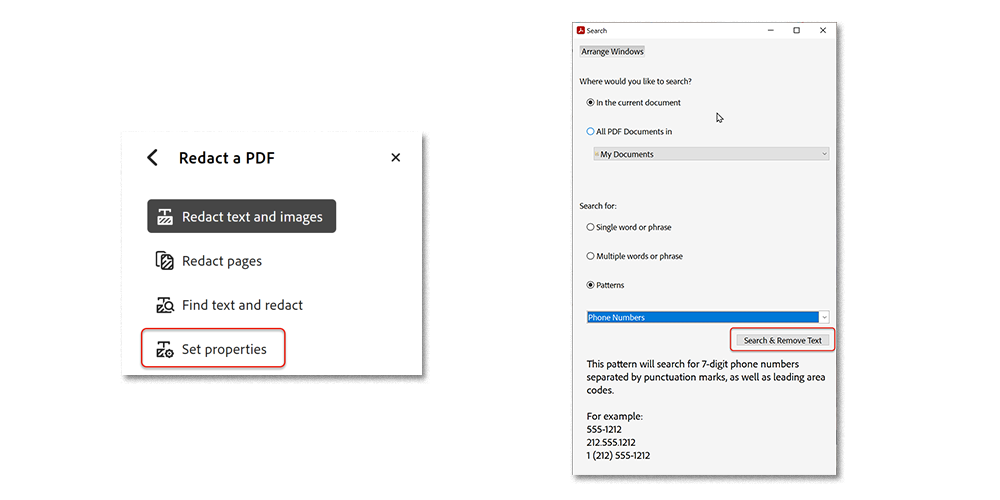
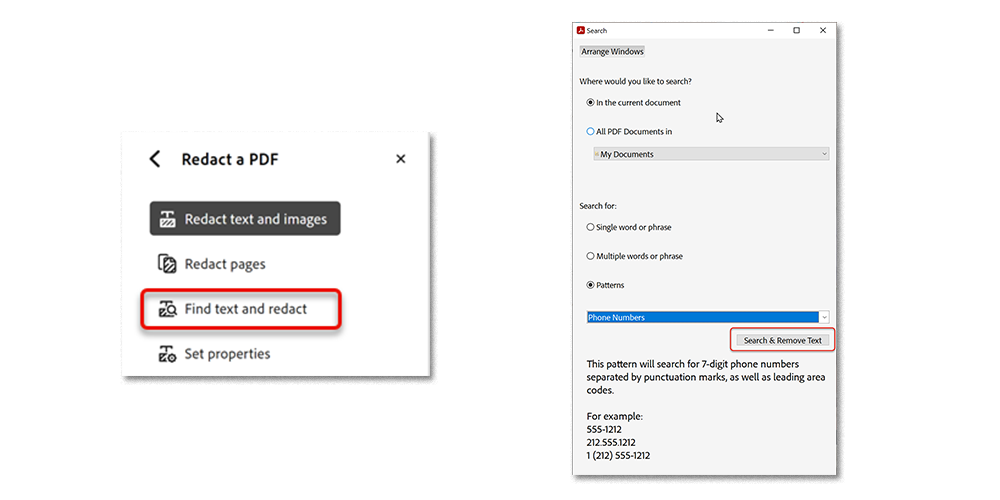
Fixed graphics

diff --git a/help/acrobat/advanced-tasks/redact.md b/help/acrobat/advanced-tasks/redact.md
@@ -32,17 +32,17 @@ Customer data protection, Risk management
 
 1. Select **[!UICONTROL Redact text and images]** and use the cursor to select the content to redact.
 
-    ![Redact Step 4](../assets/Redact_3.png)
+    ![Redact Step 3](../assets/Redact_3.png)
 
     You can see a preview of the redaction by hovering over the selected content.
 
-    ![Redact Step 5a](../assets/Redact_4.png)
-
 1. Select **[!UICONTROL Find text and redact]** to search for a specific word or phrase, or search for a Pattern to find certain types of information. Set your search and select Search & Remove Text.
+
+  ![Redact Step 4](../assets/Redact_4.png)
 
 1. In the search results dialog, check the boxes next to the items and select **[!UICONTROL Mark checked results for redaction]**.
 
-    ![Redact Step 5b](../assets/Redact_5.png)
+    ![Redact Step 5](../assets/Redact_5.png)
 
 1. Select **[!UICONTROL Redact pages]** to mark entire pages for redaction.
 
@@ -50,13 +50,15 @@ Customer data protection, Risk management
 
 1. Select your pages and choose **[!UICONTROL OK]**.
 
+    ![Redact Step 7](../assets/Redact_7.png)
+
 1. Select **[!UICONTROL Apply]** in the Redact a PDF panel to apply the marked redactions.
 
-    ![Redact Step 6](../assets/Redact_7.png)
+    ![Redact Step 8](../assets/Redact_8.png)
 
 1. Select **[!UICONTROL Continue]** to sanitize and remove hidden information.
 
-    ![Redact Step 6](../assets/Redact_8.png)
+    ![Redact Step 9](../assets/Redact_9.png)
 
 Once you confirm, the redactions and hidden information are permanently removed and saved to a new file.
 
